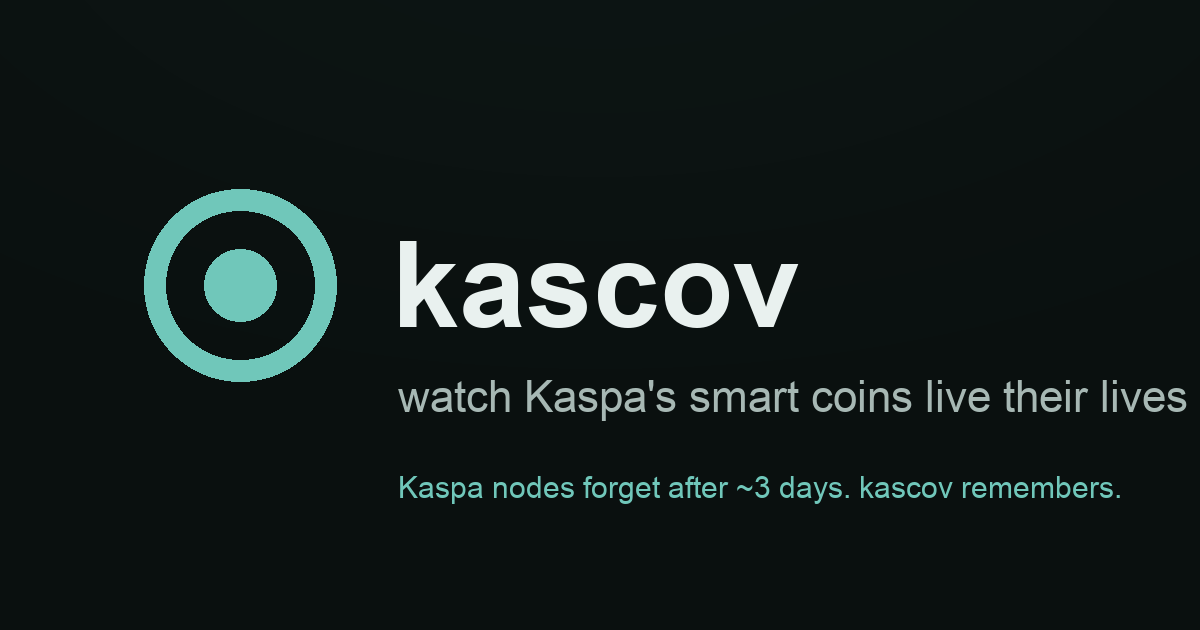
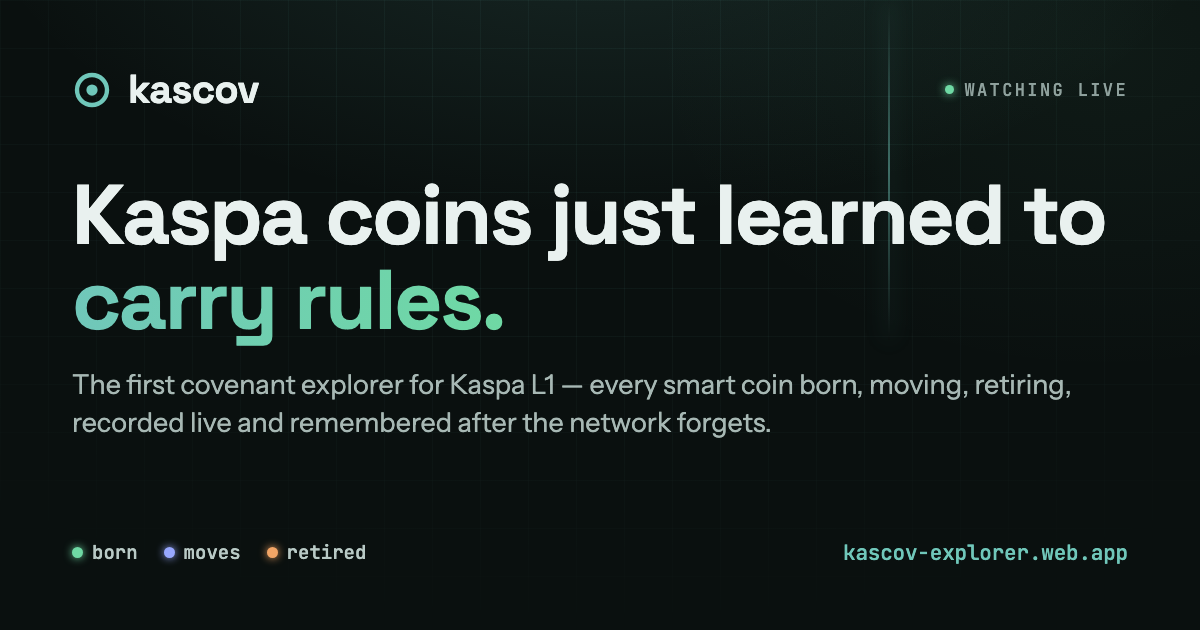
web: refresh the social share card to match the overhaul
og.png was still the old design. New mission-control card (og-card.html
is the source, rendered at 1200x630): Space Grotesk headline with the
gradient accent, blueprint grid + radar sweep, WATCHING LIVE tag, the
lifecycle legend, teal URL. Matches the live site so shared links preview
on-brand.

Claude-Session: https://claude.ai/code/session_015QHw3HSgQtm9GEM9QsqKZW

diff --git a/web/og-card.html b/web/og-card.html
@@ -1,0 +1,80 @@
+<!doctype html>
+<html lang="en">
+<head>
+<meta charset="utf-8">
+<link href="https://fonts.googleapis.com/css2?family=Space+Grotesk:wght@500;600;700&family=Instrument+Sans:wght@400;500;600&family=JetBrains+Mono:wght@500;600&display=swap" rel="stylesheet">
+<style>
+  * { margin: 0; padding: 0; box-sizing: border-box; }
+  html, body { width: 1200px; height: 630px; overflow: hidden; }
+  body {
+    background:
+      radial-gradient(900px 480px at 50% -120px, rgba(112,199,186,0.14), transparent 70%),
+      radial-gradient(700px 500px at 92% 8%, rgba(111,217,164,0.05), transparent 65%),
+      #0a100f;
+    font-family: "Instrument Sans", system-ui, sans-serif;
+    color: #e9f1ef;
+    position: relative;
+  }
+  /* blueprint grid, masked to the top like the site hero */
+  .grid {
+    position: absolute; inset: 0;
+    background-image:
+      linear-gradient(rgba(112,199,186,0.05) 1px, transparent 1px),
+      linear-gradient(90deg, rgba(112,199,186,0.05) 1px, transparent 1px);
+    background-size: 48px 48px;
+    -webkit-mask-image: radial-gradient(80% 78% at 50% 22%, #000 32%, transparent 100%);
+  }
+  /* one radar sweep line, static, in the headline zone */
+  .sweep {
+    position: absolute; left: 74%; top: 0; height: 340px; width: 1.5px;
+    background: linear-gradient(180deg, transparent, rgba(112,199,186,0.5), transparent);
+    box-shadow: 0 0 22px rgba(112,199,186,0.4);
+  }
+  .frame { position: relative; height: 100%; padding: 64px 72px; display: flex; flex-direction: column; }
+  .top { display: flex; align-items: center; gap: 16px; }
+  .eye { width: 40px; height: 40px; }
+  .mark { font-family: "Space Grotesk", sans-serif; font-weight: 700; font-size: 40px; letter-spacing: -0.02em; }
+  .tag {
+    margin-left: auto; font-family: "JetBrains Mono", monospace; font-size: 17px;
+    letter-spacing: 0.14em; text-transform: uppercase; color: #8fa19d;
+    display: flex; align-items: center; gap: 10px;
+  }
+  .dot { width: 9px; height: 9px; border-radius: 99px; background: #6fd9a4; box-shadow: 0 0 10px #6fd9a4; }
+  h1 {
+    font-family: "Space Grotesk", sans-serif; font-weight: 700; font-size: 84px;
+    line-height: 1.02; letter-spacing: -0.03em; margin-top: auto; max-width: 20ch;
+  }
+  .accent { background: linear-gradient(92deg, #70c7ba, #6fd9a4); -webkit-background-clip: text; background-clip: text; color: transparent; }
+  .sub { font-size: 27px; color: #a7b8b4; margin-top: 22px; max-width: 60ch; line-height: 1.4; }
+  .foot { margin-top: auto; padding-top: 40px; display: flex; align-items: center; gap: 30px; }
+  .lifecycle { display: flex; gap: 26px; font-family: "JetBrains Mono", monospace; font-size: 19px; }
+  .lc { display: flex; align-items: center; gap: 9px; color: #b9cac6; }
+  .lc i { width: 11px; height: 11px; border-radius: 99px; display: inline-block; }
+  .born { background: #6fd9a4; box-shadow: 0 0 9px #6fd9a4; }
+  .move { background: #98a8ff; box-shadow: 0 0 9px #98a8ff; }
+  .burn { background: #f2a566; box-shadow: 0 0 9px #f2a566; }
+  .url { margin-left: auto; font-family: "JetBrains Mono", monospace; font-size: 21px; color: #70c7ba; letter-spacing: -0.01em; }
+</style>
+</head>
+<body>
+  <div class="grid"></div>
+  <div class="sweep"></div>
+  <div class="frame">
+    <div class="top">
+      <svg class="eye" viewBox="0 0 64 64" aria-hidden="true"><circle cx="32" cy="32" r="24" fill="none" stroke="#70c7ba" stroke-width="7"/><circle cx="32" cy="32" r="9" fill="#70c7ba"/></svg>
+      <span class="mark">kascov</span>
+      <span class="tag"><span class="dot"></span>WATCHING LIVE</span>
+    </div>
+    <h1>Kaspa coins just learned to <span class="accent">carry rules.</span></h1>
+    <p class="sub">The first covenant explorer for Kaspa L1 — every smart coin born, moving, retiring, recorded live and remembered after the network forgets.</p>
+    <div class="foot">
+      <div class="lifecycle">
+        <span class="lc"><i class="born"></i>born</span>
+        <span class="lc"><i class="move"></i>moves</span>
+        <span class="lc"><i class="burn"></i>retired</span>
+      </div>
+      <span class="url">kascov-explorer.web.app</span>
+    </div>
+  </div>
+</body>
+</html>